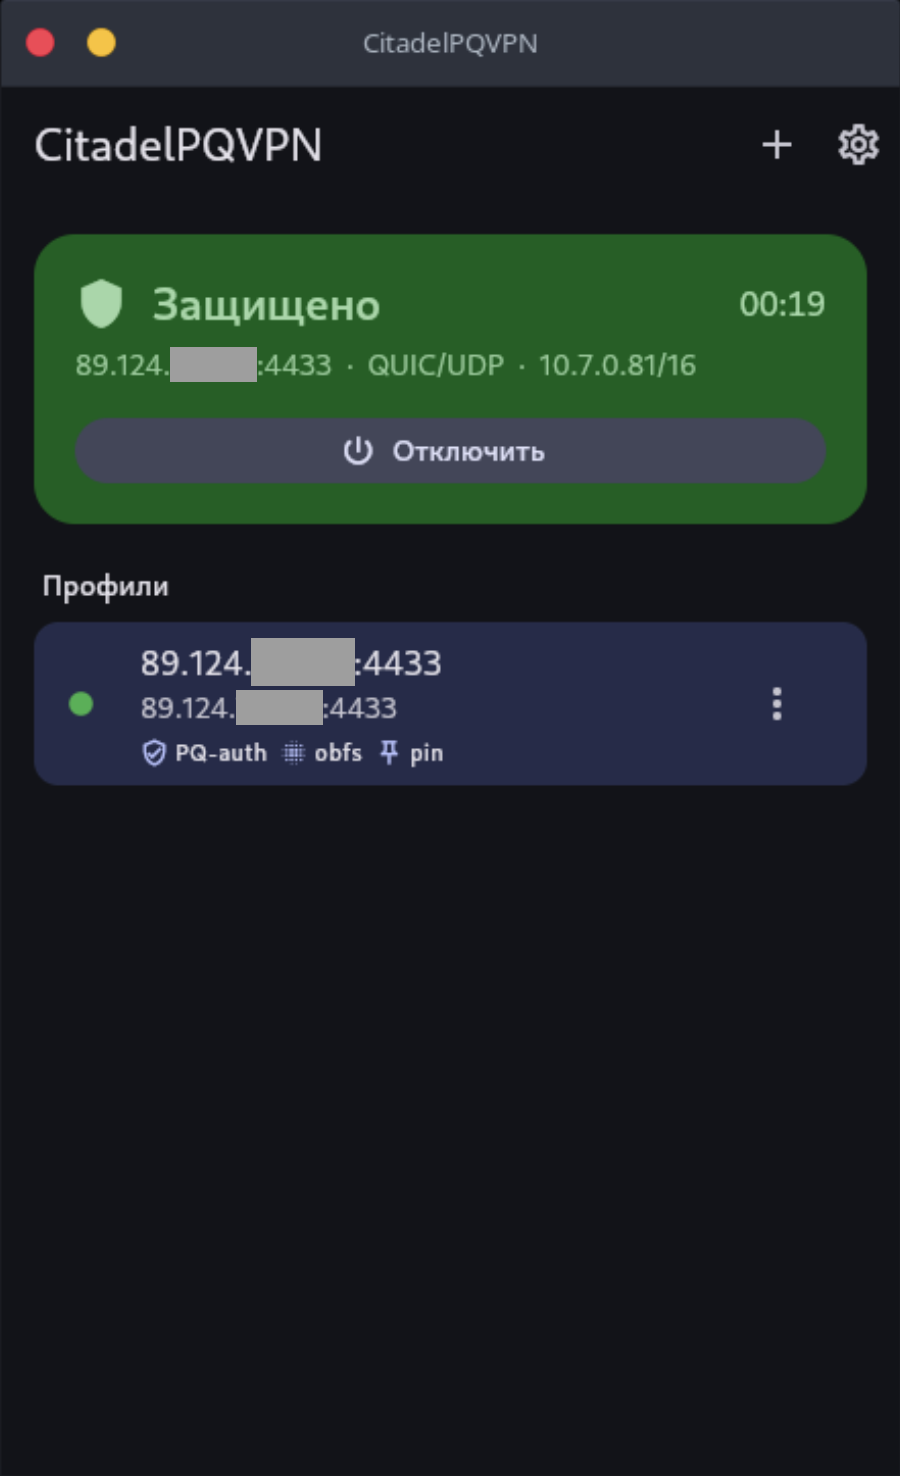
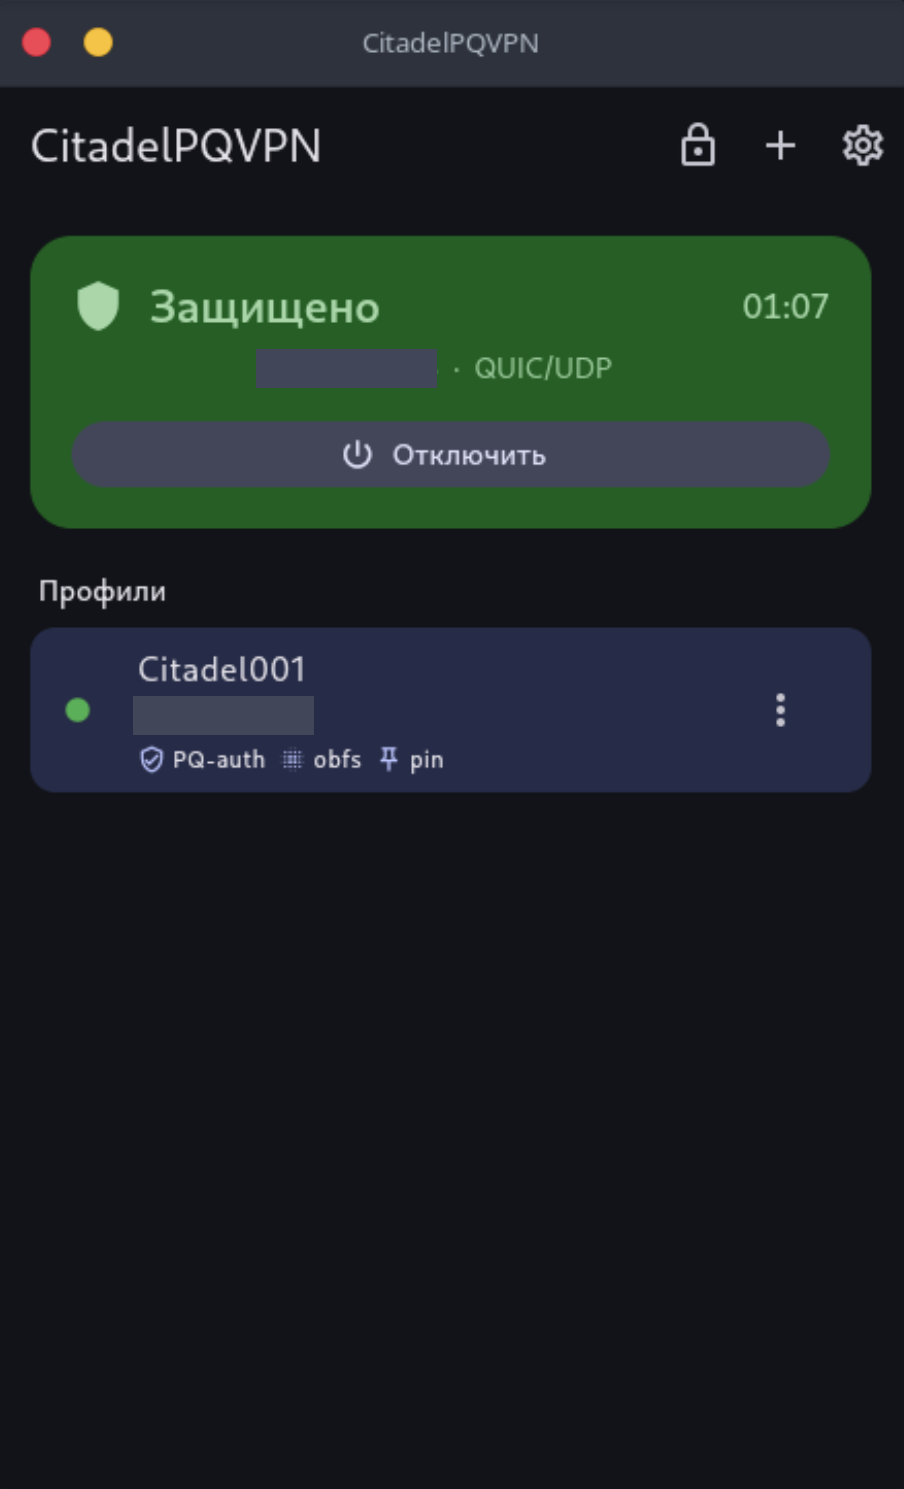
docs(readme,changelog,release): срез 0.10.0
Подготовка к выпуску v0.10.0 (после опубликованного v0.10.0-pre6) — правки в
документации.

* README:
  - число юнит-тестов 200+ → 350+ (в дереве 356 #[test]/#[tokio::test]);
  - в раздел сборки добавлен tools/fuzz.sh (15 целей cargo-fuzz, гейт в CI);
  - в таблицу документации добавлены AUTH-ALTERNATIVES.md и
    SERVER-KEY-PROTECTION.md — единственные docs/*.md, которых там не было;
  - пост-аудитные заходы: 2026-08-14 → 2026-08-19;
  - команды установки сервера: v0.8.0 → v0.10.0.

* CHANGELOG: [Unreleased] нарезан в [0.10.0] — 2026-08-25 со сводкой, что выпуск
  вбирает 0.9.0-pre* и 0.10.0-pre*, и с указанием обновлять сервер и клиент вместе.

* docs/RELEASE.md: примеры команд выпуска переведены на v0.10.0.

* docs/screenshots/README.md: файлы больше не описаны как плейсхолдеры (это
  настоящие снимки с тестового профиля), строка android-connected.png убрана,
  минимальные размеры приведены к фактическим пропорциям.

Версию в app/pubspec.yaml не трогаю намеренно: mk-client-release.sh берёт её из
git-тега и передаёт через --build-name/--build-number, pubspec — шаблон.

diff --git a/docs/screenshots/README.md b/docs/screenshots/README.md
@@ -1,15 +1,18 @@
 # Снимки экрана для README
 
-Файлы здесь — **плейсхолдеры**. Замените их настоящими снимками, сохранив имена: на них
-ссылается корневой `README.md`, и переименование сломает картинки на главной странице проекта.
+Файлы здесь — настоящие снимки, снятые с тестового профиля и тестового exit'а. На них
+ссылается корневой `README.md`: переименование сломает картинки на главной странице проекта,
+поэтому пересъёмку кладите под тем же именем.
 
-| Файл | Что снимаем | Минимальный размер |
+| Файл | Что снято | Минимальный размер |
 |---|---|---|
-| `android-connected.png` | Главный экран Android-клиента с поднятым туннелем: карточка статуса, таймер сессии, имя профиля | 540×1170 |
 | `android-split.png` | Экран раздельного туннелирования: список приложений и/или назначений | 540×1170 |
-| `linux-gui.png` | Окно Linux-клиента в состоянии «подключено» | 1280×800 |
-| `linux-cli.png` | TUI `citadel-cli`: статус, журнал, подсказки клавиш | 1280×800 |
-| `windows-connected.png` | Окно Windows-клиента; хорошо, если в кадр попадёт значок в трее | 1280×800 |
+| `linux-gui.png` | Окно Linux-клиента в состоянии «подключено» | 900×1400 |
+| `linux-cli.png` | TUI `citadel-cli`: статус, профили, журнал, kill-switch | 1280×800 |
+| `windows-connected.png` | Окно Windows-клиента; хорошо, если в кадр попадёт значок в трее | 660×1200 |
+
+Главный экран с поднятым туннелем показан снимками Linux и Windows; отдельный
+`android-connected.png` из README убран — он повторял ту же карточку статуса третий раз.
 
 Крупнее — можно и нужно: GitHub масштабирует изображение под ширину колонки, поэтому
 скриншот с ретины выглядит заметно лучше. Формат — PNG.
@@ -24,7 +27,3 @@
 (там метки живых людей) в README не нужен вовсе. Замазанный прямоугольник поверх адреса —
 плохая защита: он читается по остальным элементам интерфейса и по контексту. Проще
 подготовить профиль с заведомо публичными значениями.
-
-Пересобрать плейсхолдеры (если понадобится вернуть исходное состояние) можно скриптом из
-истории задачи; отдельного инструмента для них в репозитории нет — это одноразовая заглушка,
-а не часть сборки.

diff --git a/CHANGELOG.md b/CHANGELOG.md
@@ -4,6 +4,15 @@
 
 ## [Unreleased]
 
+## [0.10.0] — 2026-08-25
+
+Первый стабильный выпуск ветки 0.10 — вбирает всё, что обкатывалось в пред-релизах
+`0.9.0-pre*` и `0.10.0-pre*`: перевод анонимных токенов на VOPRF, per-exit ключи эпохи,
+парольный конверт мастер-ссылки, фаззинг разборщиков и фабрику исходящих сокетов, а также
+разбор находок с живой установки (квота выдачи, admin-канал при раздельном деплое,
+рассинхрон ключа эпохи). **Обновлять сервер и клиент нужно вместе** — см. раздел
+«Слом совместимости» ниже.
+
 ### Разбор находок с живой установки — квота выдачи, активация без сети, «Абоненты» (2026-08-19)
 
 - **Клиент перестал сжигать квоту выдачи на каждом «Отключить → Подключить».** Жалоба выглядела

diff --git a/docs/RELEASE.md b/docs/RELEASE.md
@@ -97,7 +97,7 @@ base64 -w0 citadel-release.jks     # значение для секрета
 git switch main && git merge --ff-only dev
 
 # 2. Подписанный тег.
-git tag -s v0.8.0 -m "CitadelPQVPN v0.8.0"
+git tag -s v0.10.0 -m "CitadelPQVPN v0.10.0"
 git push origin main --follow-tags
 ```
 
@@ -121,10 +121,10 @@ git push origin main --follow-tags
 ### Собрать релиз вручную
 
 ```sh
-tools/mk-release.sh        v0.8.0 --no-sign
-cp CitadelPQVPN-Setup-0.8.0.exe dist/v0.8.0/     # если установщик уже собран
-tools/mk-client-release.sh v0.8.0                # клиенты + sha256sums + подпись
-tools/publish-release.sh   v0.8.0
+tools/mk-release.sh        v0.10.0 --no-sign
+cp CitadelPQVPN-Setup-0.10.0.exe dist/v0.10.0/     # если установщик уже собран
+tools/mk-client-release.sh v0.10.0                # клиенты + sha256sums + подпись
+tools/publish-release.sh   v0.10.0
 ```
 
 `publish-release.sh` идемпотентен: повторный запуск обновляет ассеты и notes существующего
